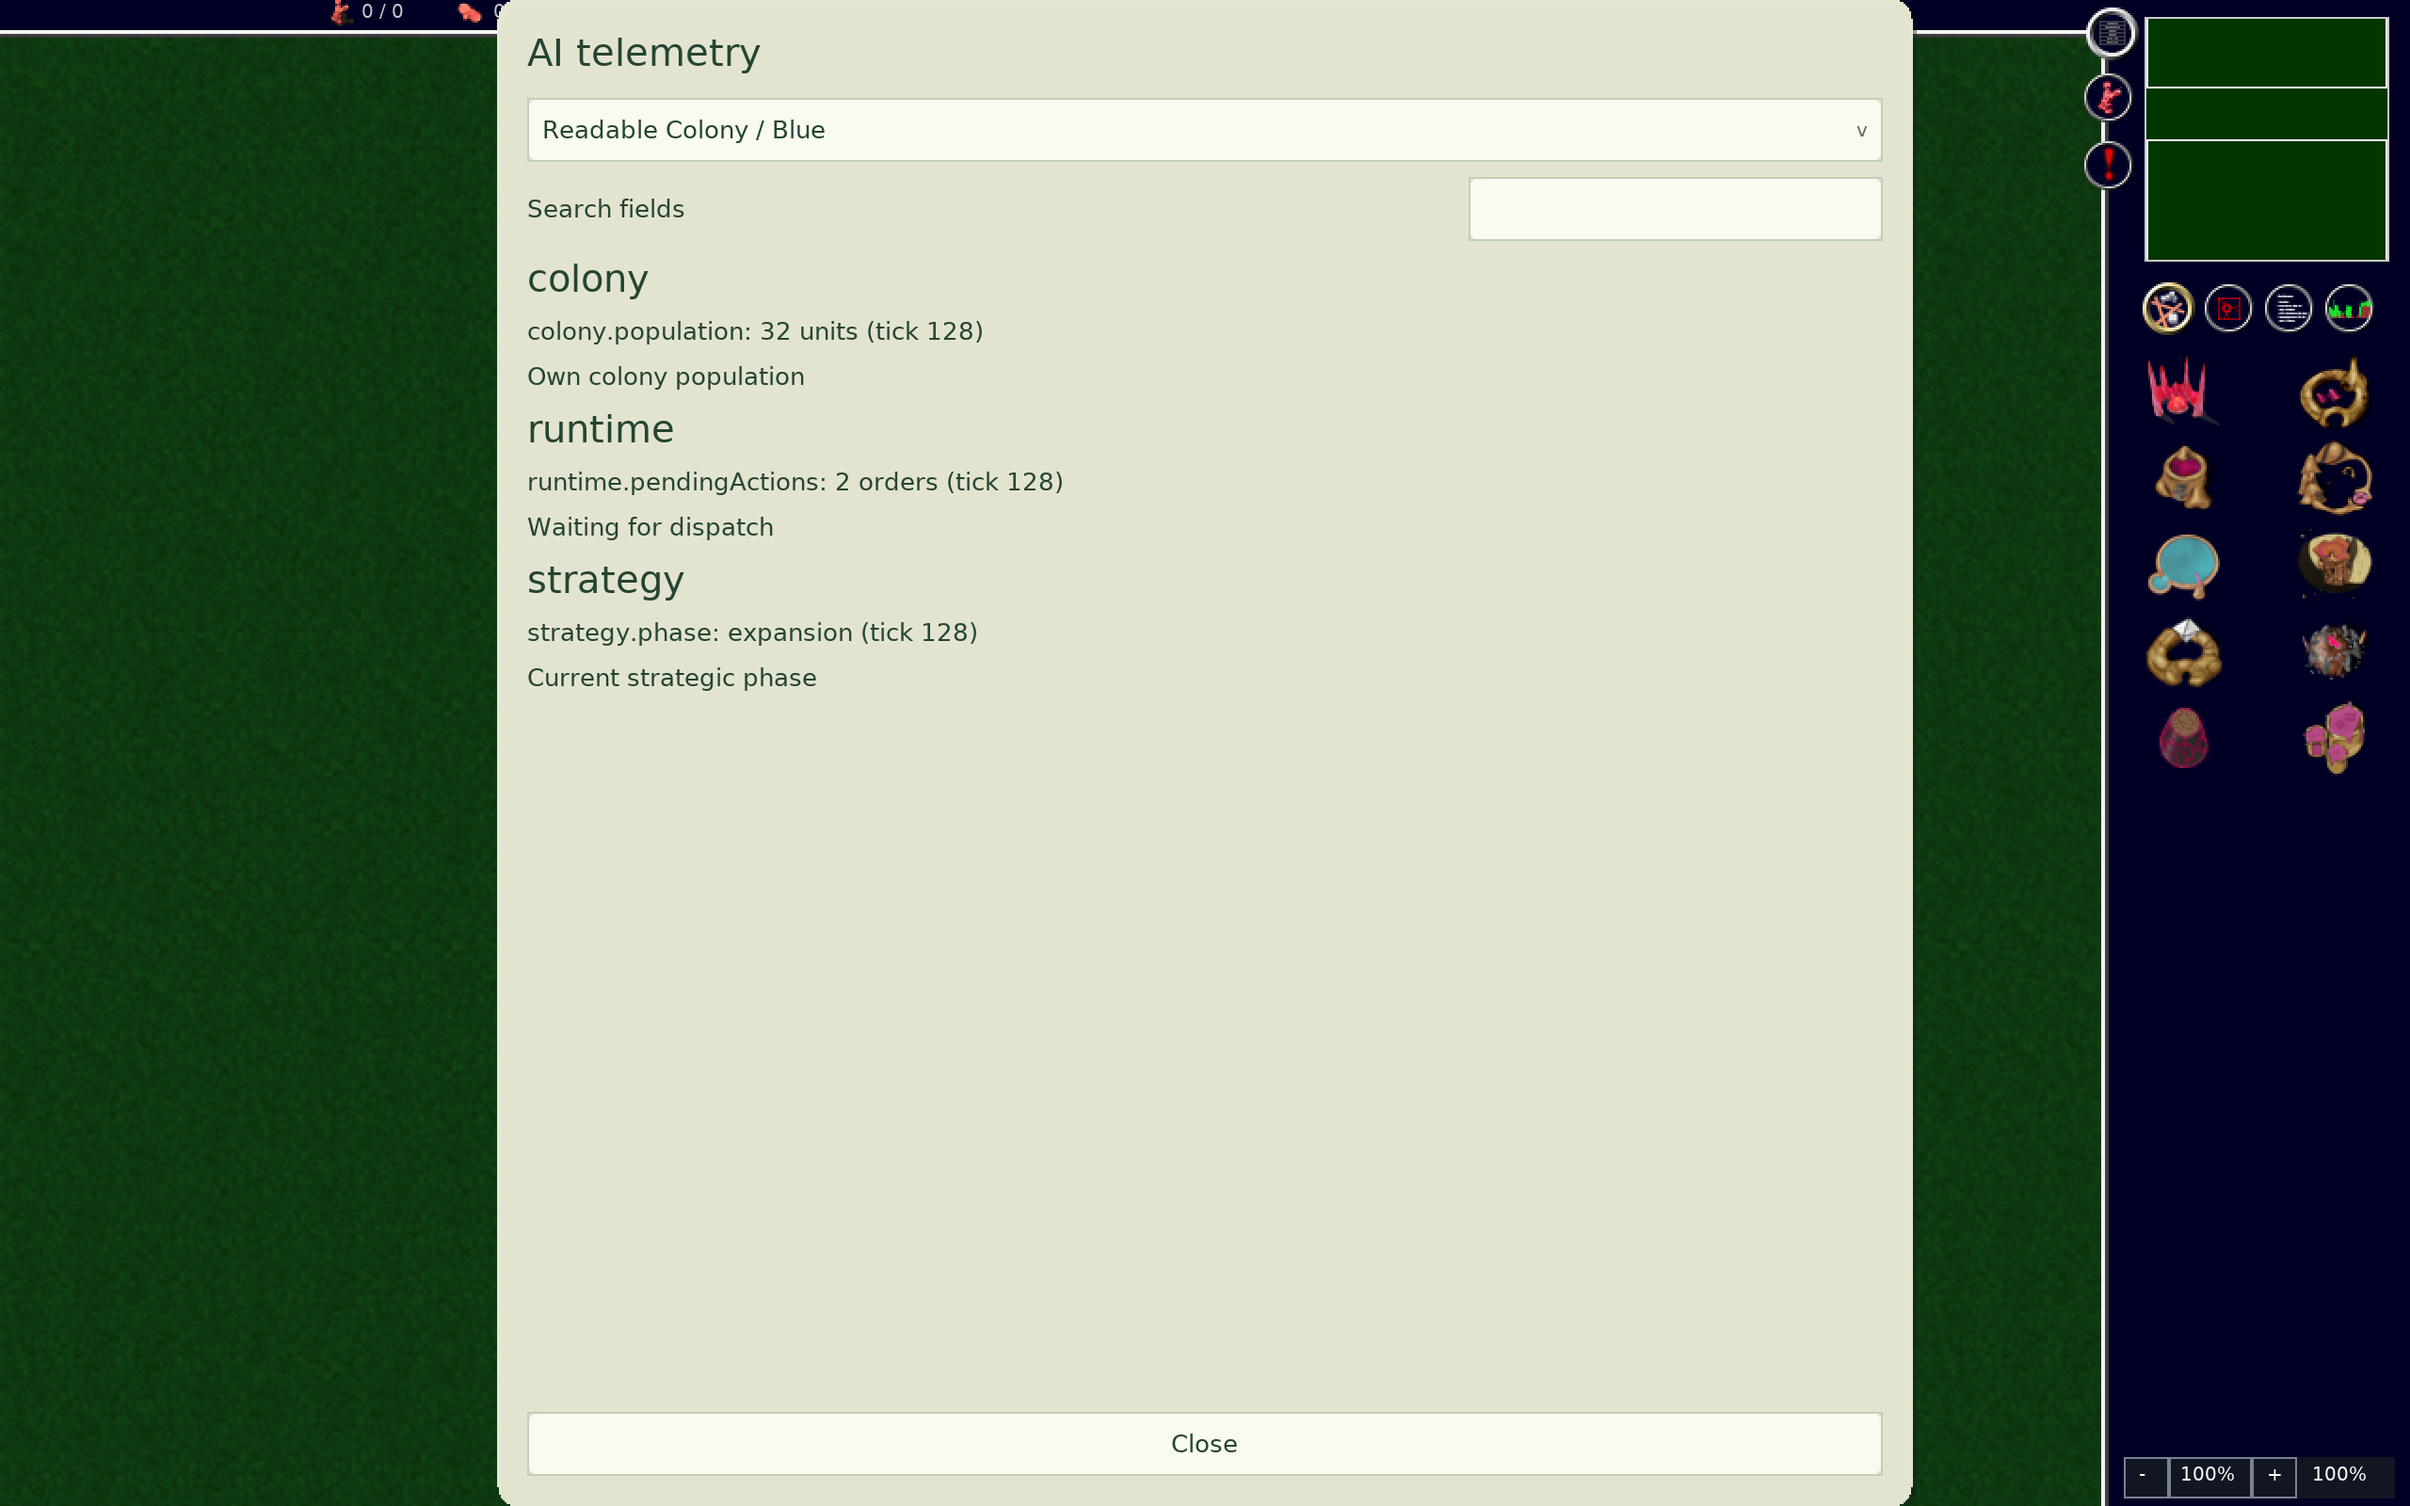
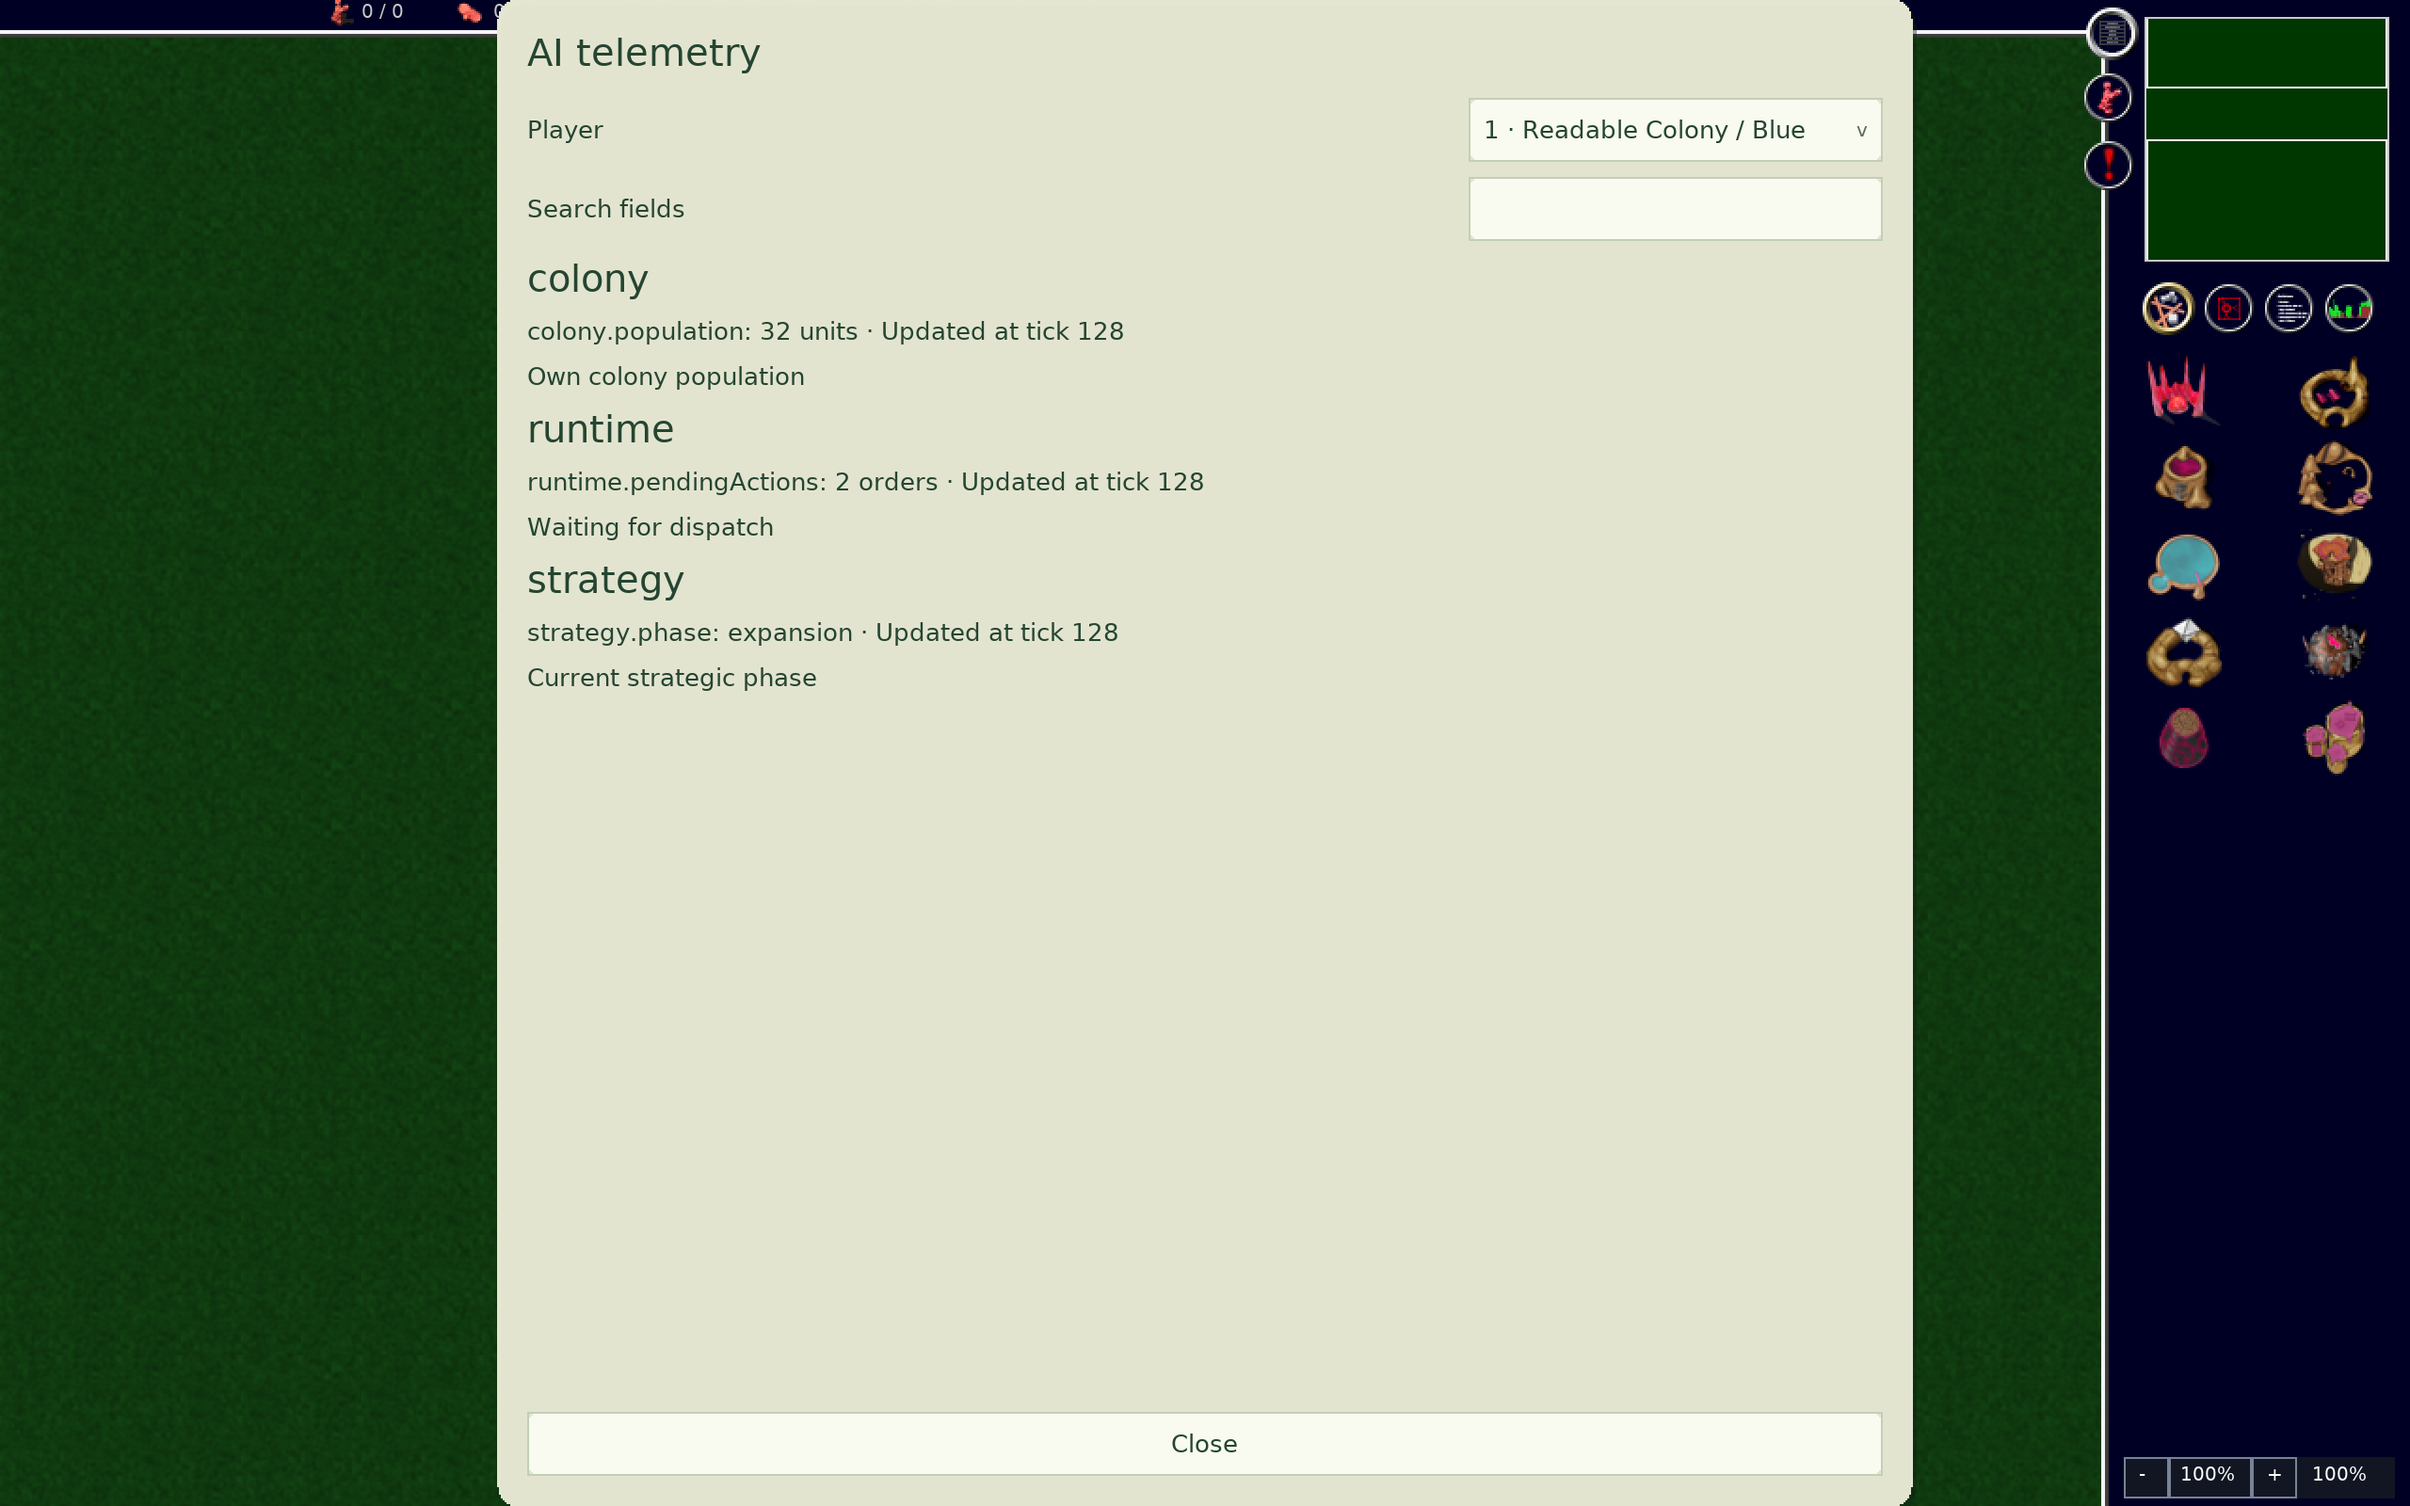
Refine starter documentation and harden bundle and continuation checks

diff --git a/src/military.js b/src/military.js
@@ -1,6 +1,7 @@
-let exploration = null,
-  attack = null,
-  direction = 0;
+// Save action IDs and the survey index, never callback-local flag handles.
+let exploration = null;
+let attack = null;
+let direction = 0;
 /** @param {import('../types/glob2-v2').ContextV2} ctx
  * @param {import('../types/glob2-v2').ManagedBuilding[]} buildings
  * @param {import('../types/glob2').Unit[]} units
@@ -35,6 +36,8 @@ export function military(ctx, buildings, units, home) {
     );
   const target = enemies[0] || hotspots[0];
   if (target && warriors >= 6) {
+    // This marker records that an attack was planned. Dispatch can still fail;
+    // inspect the action status and replay to confirm the resulting combat.
     ctx.telemetry.set("military.attacking", true);
     if (war) {
       war.x = target.x;

diff --git a/src/economy.js b/src/economy.js
@@ -1,6 +1,7 @@
-let pending = null,
-  nextBuild = 0,
-  zoned = false;
+// Persist scheduling and action IDs; reacquire observed buildings each decision.
+let pending = null;
+let nextBuild = 0;
+let zoned = false;
 /** @param {import('../types/glob2-v2').ContextV2} ctx
  * @param {import('../types/glob2-v2').ManagedBuilding[]} buildings
  * @param {import('../types/glob2').Unit[]} units
@@ -52,6 +53,7 @@ export function economy(ctx, buildings, units, home, planConstruction) {
   let family = null;
   if (inns.length < wantedInns) family = "inn";
   else {
+    // Pairs use stable building family codes (shortType), not variant IDs.
     const progression = [
       ["racetrack", 3],
       // Swimming lets workers harvest algae needed by schools.

diff --git a/src/technology.js b/src/technology.js
@@ -1,11 +1,14 @@
-let pending = null,
-  clearing = null;
+// Action IDs are plain saved data. Never retain the candidate building handle.
+let pending = null;
+let clearing = null;
 /** @param {import('../types/glob2-v2').ContextV2} ctx
  * @param {import('../types/glob2-v2').ManagedBuilding[]} buildings */
 export function technology(ctx, buildings) {
   const workers = ctx.game
     .units({ team: ctx.myTeam, limit: 512 })
     .filter((u) => u.type === 0);
+  // levels[6] is the BUILD skill, not the unit type or building level. A
+  // next-level construction site needs workers trained above its current level.
   /** @param {number} level */
   const trainedFor = (level) =>
     workers.filter((u) => u.levels[6] > level).length >= 5;

diff --git a/src/index.js b/src/index.js
@@ -2,8 +2,8 @@ import { economy } from "./economy.js";
 import { technology } from "./technology.js";
 import { military } from "./military.js";
 // Only plain data persists. The engine saves these module variables automatically.
-let nextDecision = 0,
-  decisions = 0;
+let nextDecision = 0;
+let decisions = 0;
 export function metadata() {
   return {
     apiVersion: 2,

diff --git a/README.md b/README.md
@@ -1,8 +1,11 @@
-# Globulation 2 JavaScript AI example
+# Globulation 2 JavaScript AI starter
 
 A readable colony AI demonstrating API profile 2. It grows food capacity, builds
 training facilities, upgrades, explores, attacks, zones a guard area, and publishes
 telemetry. Playing strength is deliberately secondary to clarity.
+
+[Use this template](https://github.com/Globulation2/glob2-javascript-ai-starter-exampler/generate)
+or download `example.js` from [Releases](https://github.com/Globulation2/glob2-javascript-ai-starter-exampler/releases).
 
 Requires a Glob2 build supporting **JavaScript API profile 2 / save format 129**.
 The compatible engine commit is pinned in [engine.json](engine.json); its integration
@@ -11,7 +14,7 @@ Do not use a profile-1-only release.
 
 ## Build and install
 
-1. Use this template, clone your repository, and install Node.js.
+1. Use this template, clone your repository, and install Node.js 22 or newer.
 2. Run `npm ci`, then `npm run build`. The output is `dist/example.js`.
 3. In Glob2, open **Settings → Custom AIs → Import JavaScript AI** and select it.
 4. In local game setup, choose **Readable Colony** for a computer-controlled seat.
@@ -52,7 +55,8 @@ This is stronger than compile-only `--check-script`, but gameplay still needs te
 
 See [API recipes and execution model](docs/API.md) for the transaction, observation,
 placement and persistence contracts. `npm test` exercises watch rebuilds and failed
-builds, including preservation of the previously published bundle.
+builds, including preservation of the previously published bundle. It also rejects
+runtime imports and tests the save-continuation trace validator.
 
 ## Rules that matter
 
@@ -62,7 +66,7 @@ and ordinary records. Store `building.ref`, then reacquire with
 callback. Persistent closures, class instances, runtime-created functions, runtime
 imports, clocks, filesystem and network access are unsupported.
 
-Owned building property edits become normal queued orders. Getters show pending
+Owned building property edits become normal queued orders. Editable-property getters show pending
 desired values; `.observed` shows the last simulation values. Repeated edits
 coalesce without moving their queue position. Only one order is dispatched per AI
 poll. `ctx.actions.status(id)` distinguishes pending, issued, constructing,
@@ -88,11 +92,13 @@ local matches and save/resume mid-construction. Verify food growth, training,
 upgrades, exploration, attack flags and guard zoning in telemetry/replays. Winning
 is not required. Keep screenshots and replay evidence outside source modules.
 
-## Qualify a strategy change
-
 Run `GLOB2_BIN=/absolute/path/to/glob2 npm run qualify`. This runs a fixed-seed
-complete-game scenario and checks food expansion, training, completed upgrades,
-exploration, attack planning and zoning. It then compares every resumed team/entity
+complete-game scenario with two copies of the starter and checks scenario-wide food expansion, training, completed upgrades,
+exploration, attack planning and a zoning request. These telemetry markers show
+policy decisions; inspect the retained replay for actual combat and applied zones. It then compares every resumed team/entity
 record with uninterrupted play using one and four compute workers. The command
 retains logs, saves, replays and checksum traces under ignored `artifacts/`.
 It fails if a behavior is not exercised, even if the script never throws.
+Coverage is shared across the two competitors: a colony under attack may not reach
+every technology. Continuation requires all 8,192 expected ticks, without gaps;
+a truncated trace cannot count as a successful comparison.

diff --git a/AGENTS.md b/AGENTS.md
@@ -1,6 +1,6 @@
 # Developing this Glob2 AI
 
-Use `npm ci`, `npm run build`, `npm run types`, and `GLOB2_BIN=/path/to/glob2 npm run check`.
+Use Node.js 22 or newer. Run `npm ci`, `npm run build`, `npm run types`, `npm test`, and `GLOB2_BIN=/path/to/glob2 npm run check`.
 Read README.md and types/glob2-v2.d.ts before changing strategy. Engine API profile 2
 is required. Do not invent engine methods, variant IDs, or observation permissions.
 
@@ -22,3 +22,8 @@ completed upgrades and attacks, not merely run without exceptions.
 
 Do not change the declaration copies independently: update from the engine revision
 in engine.json and run scripts/check-api.mjs. Keep the bundler's atomic publish step.
+
+`npm test` covers atomic publishing, rejection of runtime imports, and strict
+continuation trace validation. Keep those checks in release CI as well as pull
+requests. Qualification coverage is scenario-wide across both AI competitors;
+telemetry about an attack or zone request is not proof that an order executed.

diff --git a/docs/API.md b/docs/API.md
@@ -75,7 +75,8 @@ exact-coordinate creation of an exploration flag, with a variant ID obtained fro
 
 Publish compact named values with `ctx.telemetry.set`. Use a stable prefix such as
 `economy.` to group related fields. Current values, units and update ticks appear
-in the common in-game AI telemetry dialog. During play only own/allied controllers
+in the common in-game AI telemetry dialog. Choose a player by number/name, then
+search field names, descriptions or current values (ASCII case-insensitive). During play only own/allied controllers
 are available; spectating and replays show all controllers. New replay recordings
 carry sampled telemetry without rerunning AI decisions.
 
